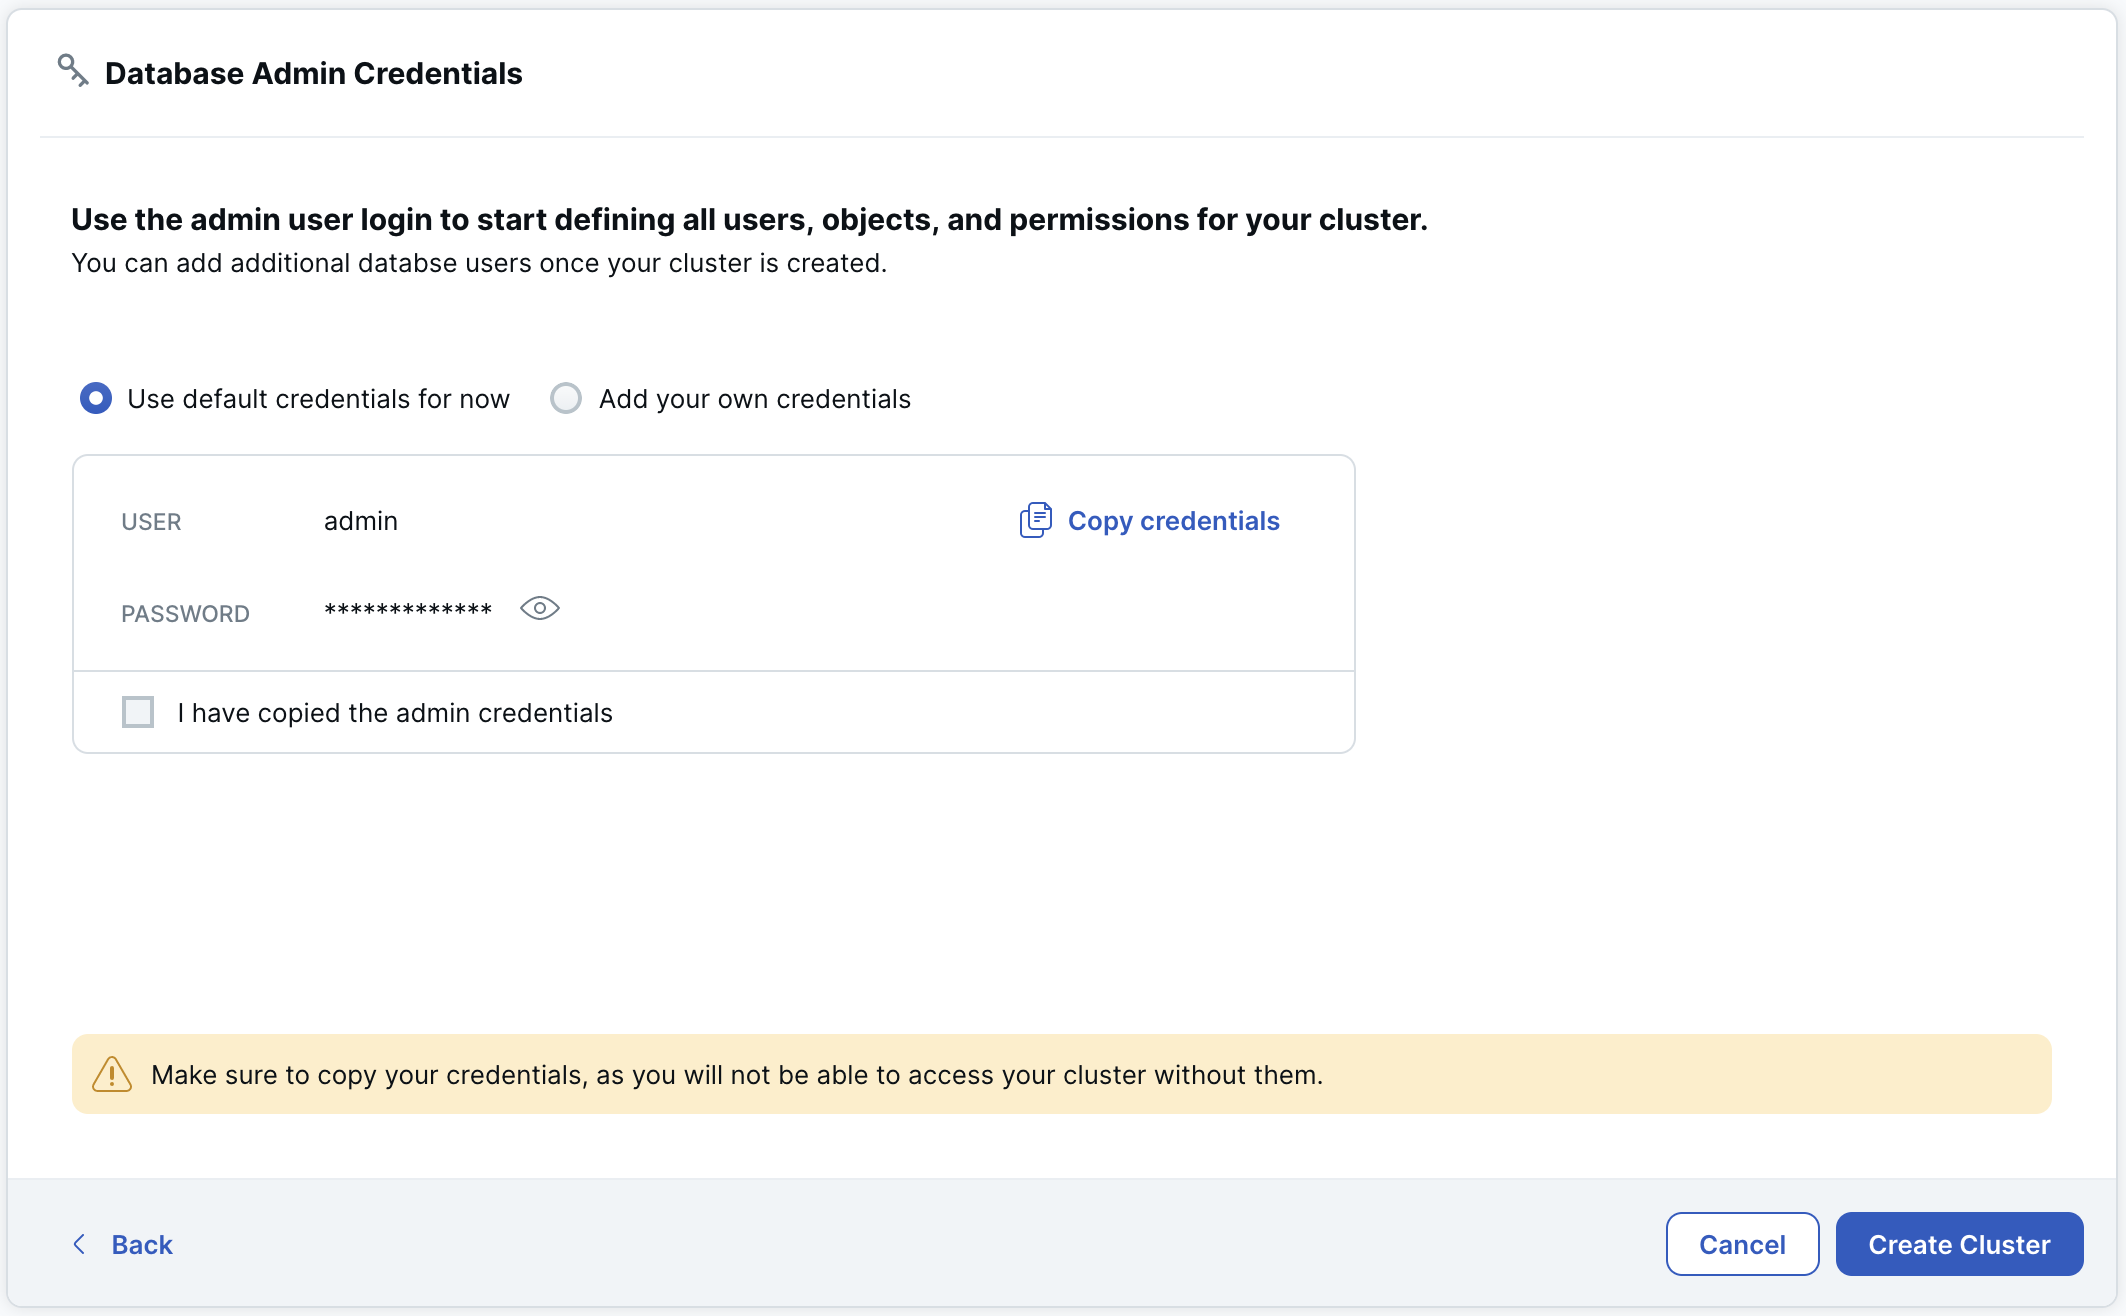
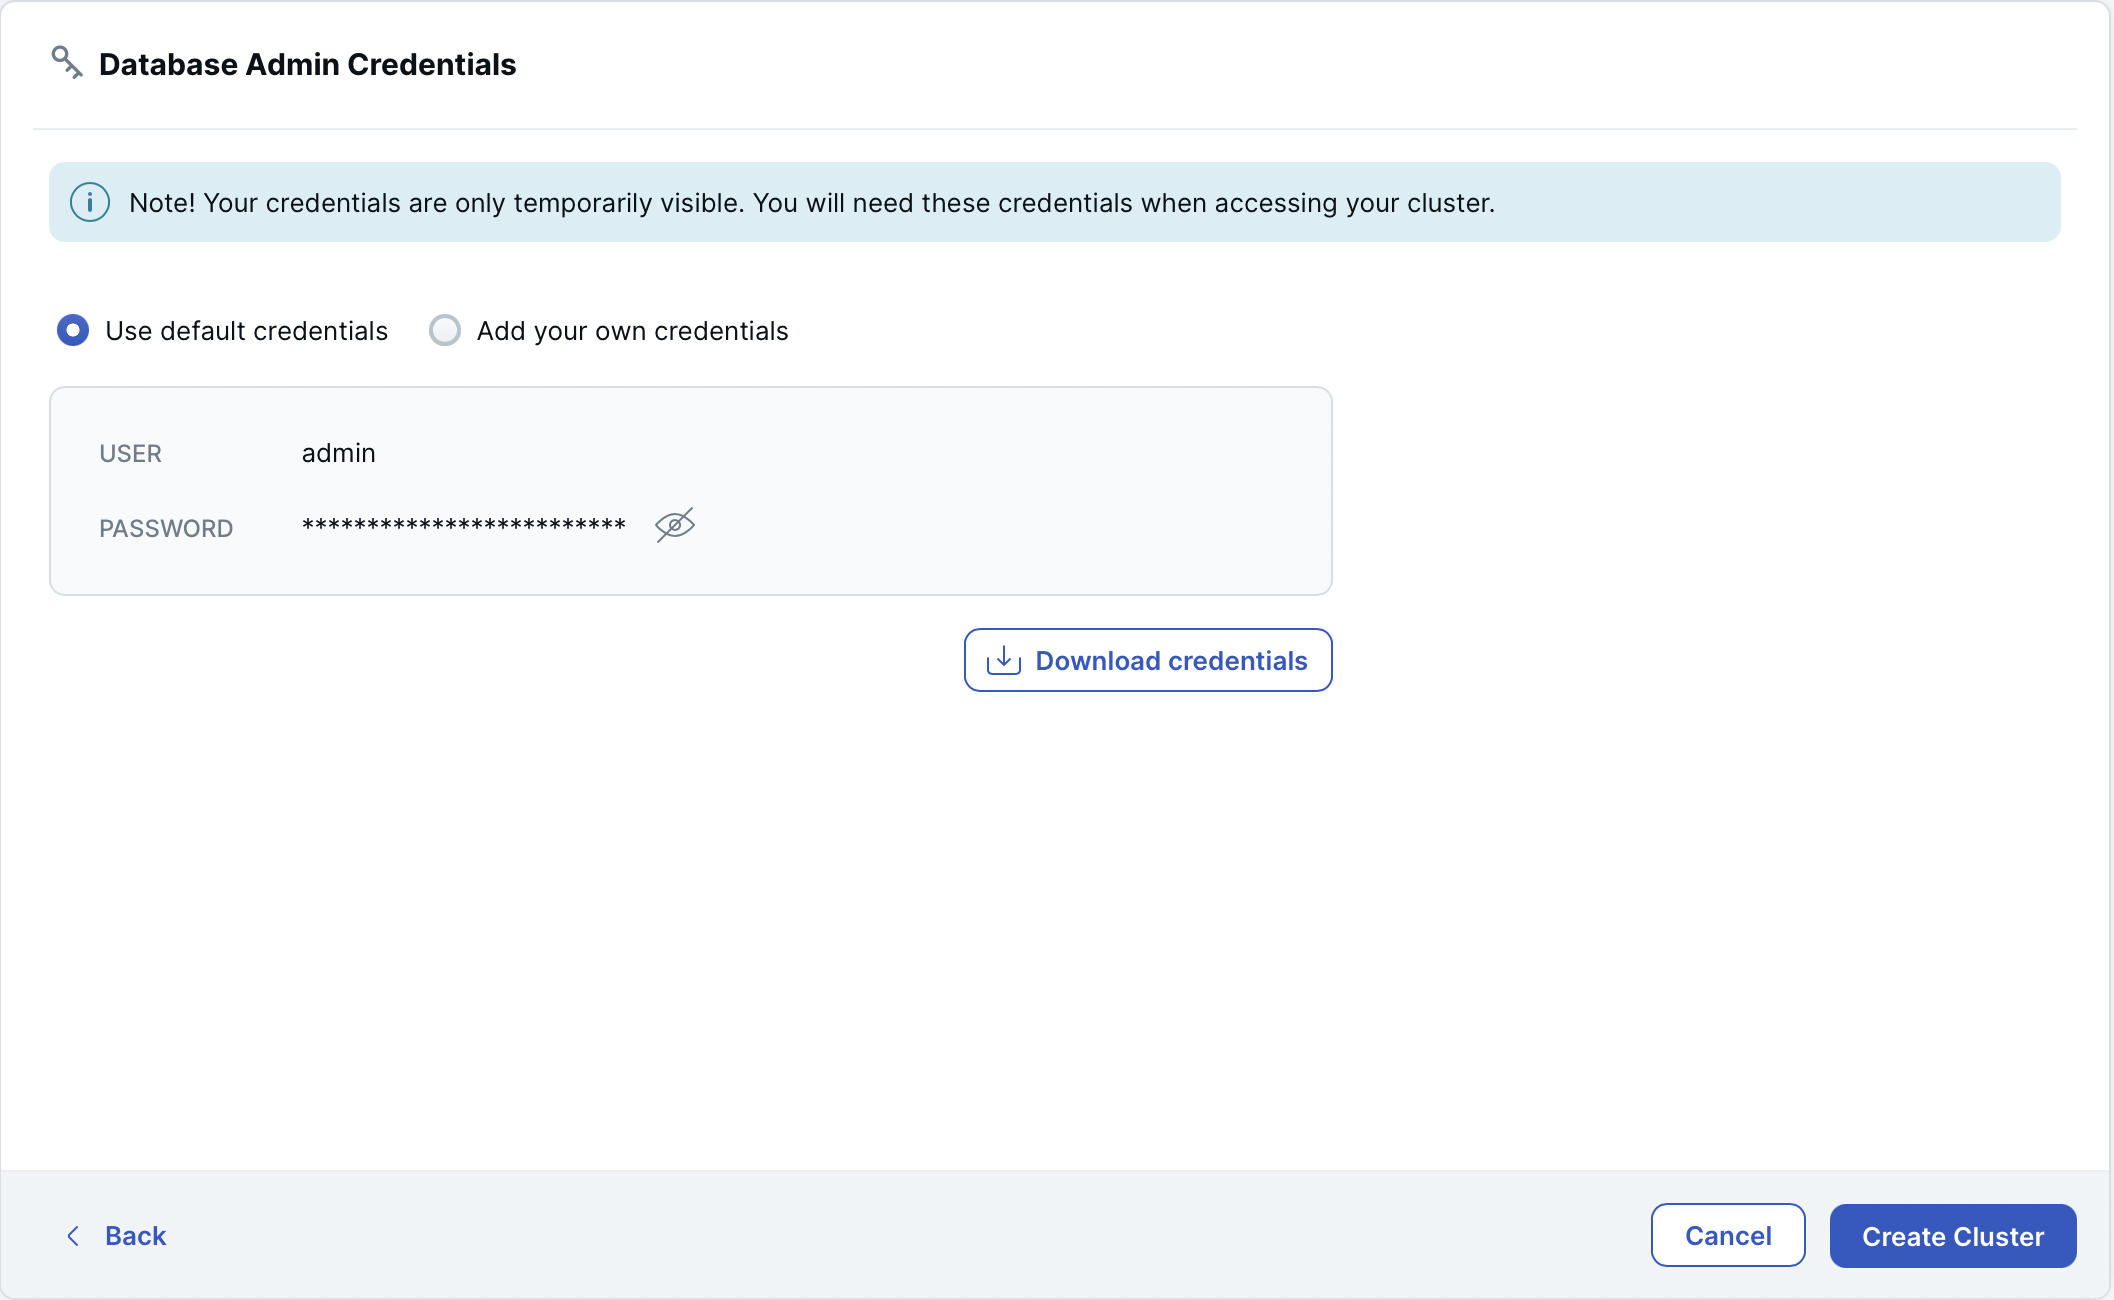
[docs] quick cloud updates prior to GA (#10054)

diff --git a/docs/content/latest/yugabyte-cloud/cloud-basics/connect/ysql.md b/docs/content/latest/yugabyte-cloud/cloud-basics/connect/ysql.md
@@ -3,12 +3,13 @@ To connect to a cluster using `ysqlsh`:
 1. On the **Clusters** tab, select a cluster.
 1. Click **Connect**.
 1. Click **YugabyteDB Client Shell**.
-1. Make sure you are running the latest version of the Yugabyte Client shell. If you have not installed Yugabyte Client on your computer, select your operating system and copy the command to install Yugabyte Client from the command line. The shell is located in the `bin` directory.
+1. Make sure you are running the latest version of the Yugabyte Client shell. If you have not installed Yugabyte Client on your computer, select your operating system and copy the command to install Yugabyte Client from the command line.
 1. Click **Download CA Cert** to download the root.crt certificate for TLS encryption, and install the certificate on your computer. If you are using Docker, copy the certificate to your Docker container.
 1. Copy the **YSQL** connection string.
     \
     The connection string includes flags specifying the host (`host`), username (`user`), database (`dbname`), and TLS settings (`sslmode` and `sslrootcert`). The command specifies that the connection will use the CA certificate you installed on your computer.
 
+    \
     Here's an example of the generated `ysqlsh` command:
 
     ```sh
@@ -20,7 +21,7 @@ To connect to a cluster using `ysqlsh`:
     ```
 
 1. On your computer, change directories to the directory where you installed the client shell.
-1. Paste and run the command, replacing 
+1. Paste and run the command, replacing
 
     - `<DB USER>` with your database username.
     - `yugabyte` with the database name, if you're connecting to a database other than the default (yugabyte).
@@ -34,3 +35,5 @@ Type "help" for help.
 
 yugabyte=#
 ```
+
+<!-- markdownlint-disable-file MD041 -->

diff --git a/docs/content/latest/yugabyte-cloud/cloud-basics/connect/ycql.md b/docs/content/latest/yugabyte-cloud/cloud-basics/connect/ycql.md
@@ -3,12 +3,13 @@ To connect to a cluster using `ycqlsh`:
 1. On the **Clusters** tab, select a cluster.
 1. Click **Connect**.
 1. Click **YugabyteDB Client Shell**.
-1. Make sure you are running the latest version of the Yugabyte Client shell. If you have not installed Yugabyte Client on your computer, select your operating system and copy the command to install Yugabyte Client from the command line. The shell is located in the `bin` directory.
+1. Make sure you are running the latest version of the Yugabyte Client shell. If you have not installed Yugabyte Client on your computer, select your operating system and copy the command to install Yugabyte Client from the command line.
 1. Click **Download CA Cert** to download the root.crt certificate for TLS encryption, and install the certificate on your computer. If you are using Docker, copy the certificate to your Docker container.
 1. Copy the **YCQL** connection string.
     \
     The connection string includes the cluster host and port, with flags for the database username (`-u`), and TLS settings (`--ssl`). The command specifies that the connection will use the CA certificate you installed on your computer.
 
+    \
     Here's an example of the generated `ycqlsh` command:
 
     ```sh
@@ -32,3 +33,5 @@ Connected to local cluster at 35.236.85.97:12200.
 Use HELP for help.
 admin@ycqlsh>
 ```
+
+<!-- markdownlint-disable-file MD041 -->

diff --git a/docs/content/latest/yugabyte-cloud/cloud-basics/create-clusters.md b/docs/content/latest/yugabyte-cloud/cloud-basics/create-clusters.md
@@ -84,7 +84,7 @@ If you are creating a **Paid** cluster, set the following additional options:
   - vCPU/Node - enter the number of virtual CPUs per node.
   - Disk size/Node - enter the disk size per node in GB.
 
-  Paid clusters support both horizontal and vertical scaling; you can change the cluster configuration after the cluster is created using the **Edit Configuration** settings. Refer to [Configure clusters](../../cloud-clusters/configure-clusters#infrastructure). <!--For cluster configuration costs, refer to [Cluster costs](../cloud-admin/cloud-billing-costs/).-->
+  Paid clusters support both horizontal and vertical scaling; you can change the cluster configuration after the cluster is created using the **Edit Configuration** settings. Refer to [Configure clusters](../../cloud-clusters/configure-clusters#infrastructure). For cluster configuration costs, refer to [Cluster costs](../cloud-admin/cloud-billing-costs/).
 
 ### Database Admin Credentials
 
@@ -94,7 +94,7 @@ The admin credentials are required to connect to the YugabyteDB database that is
 
 You can use the default credentials generated by Yugabyte Cloud, or add your own.
 
-Copy the credentials, select **I have copied the admin credentials** and click **Create Cluster**.
+Download the credentials, and click **Create Cluster**.
 
 {{< warning title="Important" >}}
 

diff --git a/docs/content/latest/yugabyte-cloud/cloud-faq.md b/docs/content/latest/yugabyte-cloud/cloud-faq.md
@@ -83,11 +83,19 @@ Client Shell
 
 : Before you can connect using a client shell, you need to have an IP allow list or VPC peer set up. Refer to [Assign IP Allow Lists](../cloud-basics/add-connections/).
 
-: You must be running the latest versions of the client shells. These are available in Yugabyte Client 2.6 or later, which you can download using the following command:
+: You must be running the latest versions of the client shells. These are available in Yugabyte Client 2.6 or later, which you can download using the following command on Linux or macOS:
 
     ```sh
     $ curl -sSL https://downloads.yugabyte.com/get_clients.sh | bash
     ```
+
+: Windows client shells require Docker:
+
+    ```sh
+    docker run -it yugabytedb/yugabyte-client ysqlsh -h <hostname> -p <port>
+    ```
+
+: Please check [cloud.yugabyte.com](https://cloud.yugabyte.com/) to see the latest version.
 
 Applications
 : Applications connect to and interact with YugabyteDB using API client libraries, also known as a client drivers. Before you can connect a application, you will need to install the correct driver. Clusters have SSL (encryption in-transit) enabled so make sure your driver details include SSL parameters. For information on available drivers, refer to [Build an application](../../quick-start/build-apps). 

diff --git a/docs/content/latest/yugabyte-cloud/cloud-clusters/backup-clusters.md b/docs/content/latest/yugabyte-cloud/cloud-clusters/backup-clusters.md
@@ -13,7 +13,7 @@ isTocNested: true
 showAsideToc: true
 ---
 
-The **Backups** tab (paid clusters only) lists the backups that have been run. Yugabyte Cloud performs full cluster (all namespaces) level backups, and the backups are stored in the same region as your cluster. 100GB/month of basic backup storage is provided for every vCPU; more than that and overage charges apply. <!--Refer to [Cluster costs](../../cloud-admin/cloud-billing-costs/).-->
+The **Backups** tab (paid clusters only) lists the backups that have been run. Yugabyte Cloud performs full cluster (all namespaces) level backups, and the backups are stored in the same region as your cluster. 100GB/month of basic backup storage is provided for every vCPU; more than that and overage charges apply. Refer to [Cluster costs](../../cloud-admin/cloud-billing-costs/).
 
 By default, every paid cluster is backed up automatically every 24 hours, and these automatic backups are retained for 8 days. The first automatic backup is triggered within the first 10 minutes of creating a table, and scheduled for every 24 hours from the initial backup. 
 

diff --git a/docs/content/latest/yugabyte-cloud/cloud-quickstart.md b/docs/content/latest/yugabyte-cloud/cloud-quickstart.md
@@ -48,9 +48,9 @@ Once the Sign up process completes, the **Getting Started** page of the Yugabyte
 
 1. Choose the credentials you'll use to connect to your YugabyteDB database in the cloud. You can choose the default set with a database user named "admin", or create your own.
 
-1. Click **Copy credentials** and save your credentials in a secure location.
+1. Click **Download credentials** and save your credentials in a secure location.
 
-1. Select the **I have copied the admin credentials** option and click **Create Cluster**.
+1. Verify that your credentials are downloaded, and click **Create Cluster**.
 
 Once you complete the wizard, Yugabyte Cloud bootstraps and provisions the cluster, and configures YugabyteDB. The process takes up to 15 minutes.
 

diff --git a/docs/content/latest/yugabyte-cloud/cloud-basics/connect-to-clusters.md b/docs/content/latest/yugabyte-cloud/cloud-basics/connect-to-clusters.md
@@ -26,7 +26,7 @@ You can connect to a cluster in the following ways:
 
 You must configure [Network Access](../../cloud-network/) before you can connect from a remote YugabyteDB client shell or an application.
 
-When connecting via Client Shell, make sure you are running the latest versions of the shells, provided in the Yugabyte Client 2.6 download.
+When connecting via Client Shell, make sure you are running the latest versions of the shells, provided in the Yugabyte Client 2.6 download. See [How do I connect to my cluster?](../../cloud-faq/#how-do-i-connect-to-my-cluster) in the FAQ for details.
 
 {{< /note >}}
 
